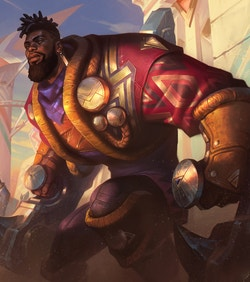
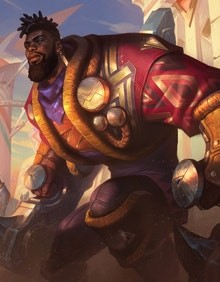
fix: cam ksante reposition, res fix

diff --git a/src/app/page.tsx b/src/app/page.tsx
@@ -354,8 +354,8 @@ function App() {
                   : ""
               }`}
               alt={champ.name}
-              width={200}
-              height={200}
+              width={512}
+              height={512}
             />
             {champ.selected ? (
               <div
